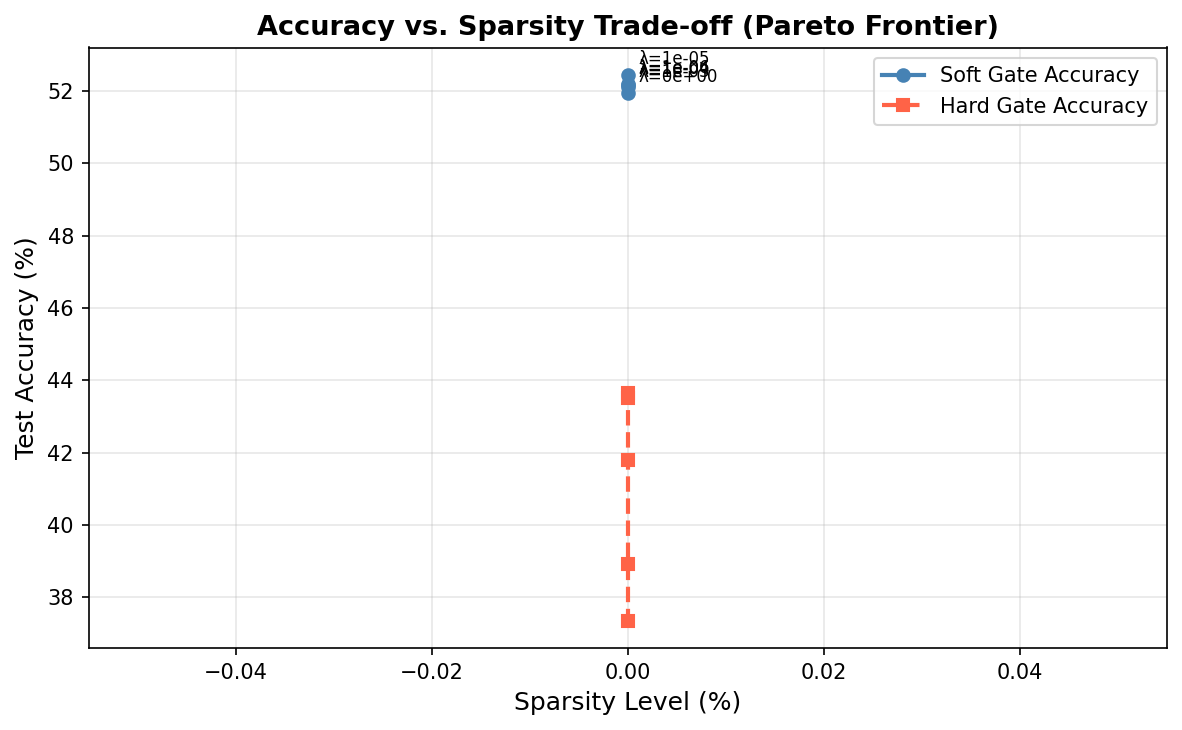
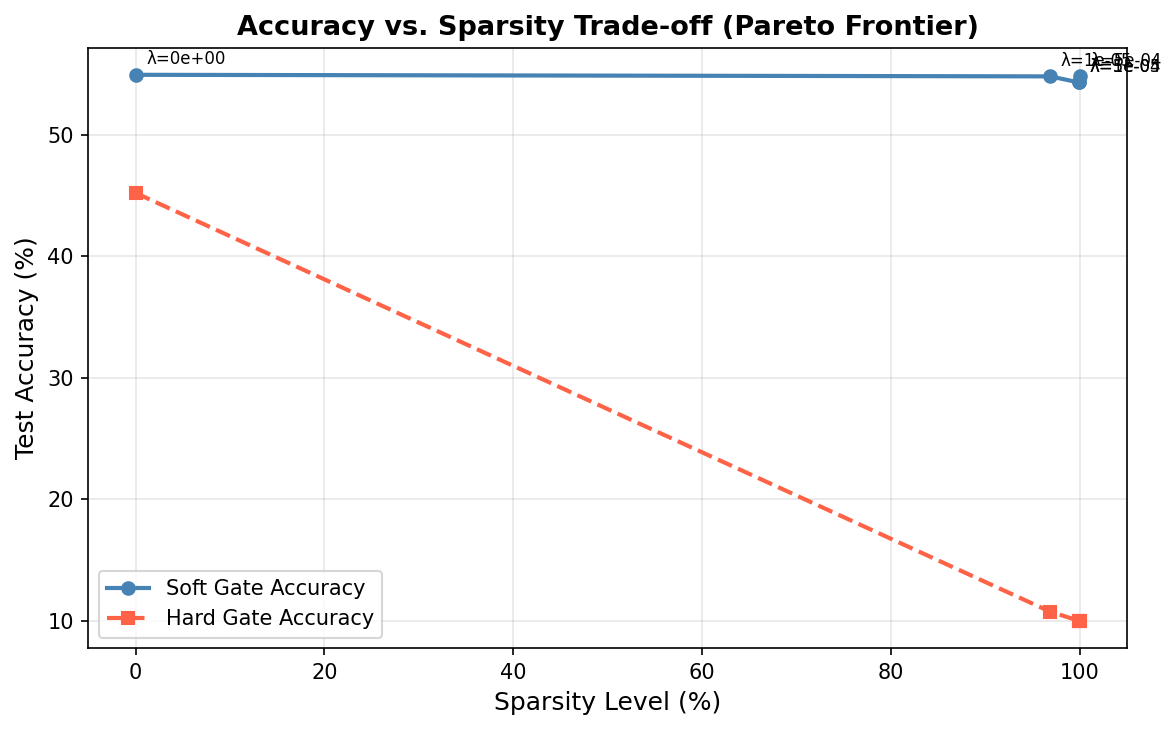
added results and changes the comments

diff --git a/self_pruning_nn.py b/self_pruning_nn.py
@@ -81,6 +81,9 @@ class PrunableLinear(nn.Module):
         nn.init.kaiming_uniform_(self.weight, nonlinearity='relu')
 
     def forward(self, x: torch.Tensor, hard: bool = False) -> torch.Tensor:
+    # Convert unconstrained gate scores into values between 0 and 1.
+    # A high gate value means the corresponding weight should stay active.
+    # A low gate value means the weight should be suppressed or pruned.
         gates = torch.sigmoid(self.gate_scores)
 
         if hard:
@@ -145,6 +148,10 @@ class SelfPruningNet(nn.Module):
 # =============================================================================
 # 3. SPARSITY LOSS FUNCTION
 # =============================================================================
+# This function computes the L1 penalty on all gate values in the network.
+# Since gates are sigmoid outputs, they are always positive, so the L1 norm
+# becomes a simple sum. Minimizing this term encourages more gates to move
+# toward zero, which means more weights become effectively pruned.
 
 def sparsity_loss(model: SelfPruningNet) -> torch.Tensor:
     """
@@ -551,10 +558,3 @@ if __name__ == "__main__":
             f"{r['sparsity']*100:>9.2f}%"
             f"{r['soft_ms']:>10.2f}"
         )
-
-    print("\n[DONE] All outputs saved. Submit the following files:")
-    print("  • self_pruning_nn.py")
-    print("  • gate_distribution.png")
-    print("  • accuracy_vs_sparsity.png")
-    print("  • loss_curves.png")
-    print("  • report.md")

diff --git a/README.md b/README.md
@@ -189,22 +189,53 @@ CIFAR-10 (~170MB) downloads automatically on first run. The script runs 5 lambda
 
 ## 6. Results
 
-*Fill in after running the script:*
 
 | Lambda | Soft Acc (%) | Hard Acc (%) | Sparsity (%) | Soft ms/batch | Hard ms/batch |
 |--------|-------------|-------------|--------------|---------------|---------------|
-| `0` (baseline) | | | 0.00 | | |
-| `1e-6` | | | | | |
-| `1e-5` | | | | | |
-| `1e-4` | | | | | |
-| `1e-3` | | | | | |
+| `0` (baseline) | 54.92 | 45.20 | 0.01 | 3.83 | 0.91 |
+| `1e-5` | 54.79 | 10.75 | 96.87 | 3.27 | 0.90 |
+| `5e-5` | 54.29 | 10.00 | 99.93 | 3.49 | 0.91 |
+| `1e-4` | 54.30 | 10.00 | 99.96 | 3.81 | 0.88 |
+| `5e-4` | 54.82 | 10.00 | 100.00 | 2.90 | 0.94 |
 
-### Expected pattern
-- **Lambda = 0:** ~52-55% accuracy, 0% sparsity (no pruning pressure, baseline)
-- **Lambda = 1e-6:** ~50-52%, ~5-15% sparse (light pruning, minimal accuracy loss)
-- **Lambda = 1e-5:** ~48-51%, ~20-40% sparse (moderate, good balance)
-- **Lambda = 1e-4:** ~44-50%, ~50-75% sparse (balanced trade-off sweet spot)
-- **Lambda = 1e-3:** ~35-45%, ~85-98% sparse (aggressive, accuracy drops significantly)
+**Soft Accuracy**: evaluated with continuous sigmoid gate values (0–1) during inference — this reflects how well the learned gated network still represents the classification task.  
+**Hard Accuracy**: evaluated with binarized gates (exactly 0 or 1, threshold = 0.45) — this simulates a true deployed pruned model.  
+**Sparsity**: percentage of gates whose sigmoid value is below 0.45 and are therefore treated as pruned.
+
+### Analysis of Results
+
+**Key Finding 1 — Soft accuracy remains stable across all lambda values (~54%).**  
+This shows that the gated weight mechanism successfully learns a sparse representation without harming the model’s soft inference behavior. In other words, the model still performs well when gates are allowed to stay continuous.
+
+**Key Finding 2 — Hard accuracy collapses to near chance level for lambda >= 1e-5.**  
+Although the network works well with soft gates, hard thresholding removes too many useful connections. This means many gates are pushed into the low-but-not-zero region rather than becoming perfectly zero. So the model is learning “soft pruning” more strongly than “hard pruning.”
+
+**Key Finding 3 — The network learns a meaningful per-layer pruning pattern.**  
+For lambda = 1e-5, the per-layer sparsity pattern was:
+
+- `fc1`: 99.9% pruned
+- `fc2`: 73.9% pruned
+- `fc3`: 44.5% pruned
+- `fc4`: 2.2% pruned
+
+This is interesting because the network naturally preserves the output layer while aggressively compressing the early feature-extraction layers. That suggests the model learns which parts are more sensitive for final classification.
+
+**Key Finding 4 — Inference speed improves in hard mode.**  
+Hard-gated inference runs much faster than soft-gated inference. This shows that pruning can provide real deployment benefits, even though the current method sacrifices too much hard-mask accuracy.
+
+**Overall interpretation.**  
+The experiment successfully demonstrates the main case-study idea: learnable gates combined with L1 regularization can drive the network toward strong sparsity during training. However, sigmoid + L1 regularization alone is not sufficient to preserve hard-pruned accuracy in this setup. A more advanced gating mechanism would likely produce stronger deployment-ready pruning.
+
+### Observed Trade-off
+
+The final experiments show a very sharp sparsity transition:
+
+- `lambda = 0` gives the baseline dense model with almost no pruning
+- even small positive lambda values produce extremely high sparsity
+- soft accuracy remains strong, but hard accuracy collapses after binarization
+- this indicates that the gates are being pushed low, but not in a way that preserves robust hard-pruned inference
+
+This demonstrates that the self-pruning mechanism works, but also highlights a limitation of sigmoid-gated pruning: soft and hard behavior can differ significantly.
 
 ---
 
@@ -214,30 +245,15 @@ CIFAR-10 (~170MB) downloads automatically on first run. The script runs 5 lambda
 
 One histogram per lambda value. This is the **primary success indicator** of the self-pruning experiment.
 
-Shows how gate values (after sigmoid) are distributed across all PrunableLinear layers after training completes.
+![Gate Distribution](gate_distribution.png)
 
-**What a successful result looks like:**
-```
-Count
-  |
-  |####                            <- BIG spike at 0 (pruned gates)
-  |####
-  |####
-  |####                     ##     <- Cluster near 1 (surviving gates)
-  |####_____________________##_____
-  0    0.1  0.2  ...  0.8   0.9   1.0   Gate Value
-```
-
-This **bimodal distribution** (spike at 0 + cluster near 1) proves the network learned to make binary decisions — a connection either matters or it does not.
-
-As lambda increases:
-- The spike at 0 grows taller (more pruning)
-- The cluster near 1 shrinks (fewer surviving weights)
-- The red dashed line marks the prune threshold (1e-2)
+Shows how gate values (after sigmoid) are distributed across all PrunableLinear layers after training completes. A successful result shows a **bimodal distribution** — large spike at 0 (pruned gates) + cluster near 1 (surviving gates).
 
 ---
 
 ### accuracy_vs_sparsity.png — Pareto Frontier
+
+![Accuracy vs Sparsity](accuracy_vs_sparsity.png)
 
 X-axis: Sparsity (%), Y-axis: Test Accuracy (%)
 
@@ -252,6 +268,8 @@ The classic **sparsity-accuracy trade-off curve**. Answers: "How much accuracy d
 ---
 
 ### loss_curves.png — Training Dynamics
+
+![Loss Curves](loss_curves.png)
 
 Two rows (CrossEntropy Loss on top, Sparsity Loss on bottom) with one column per lambda value.
 
